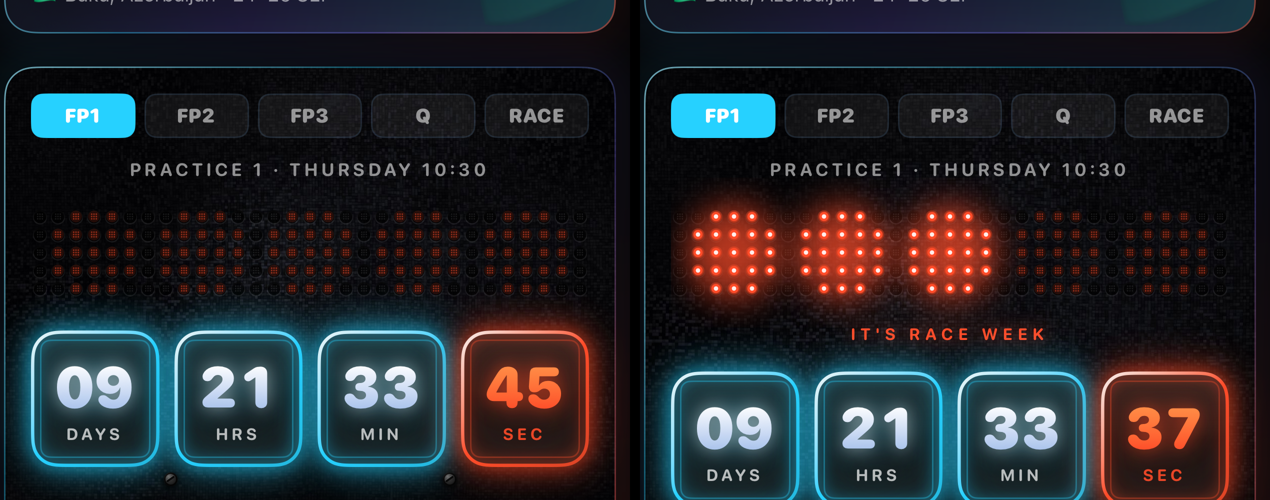
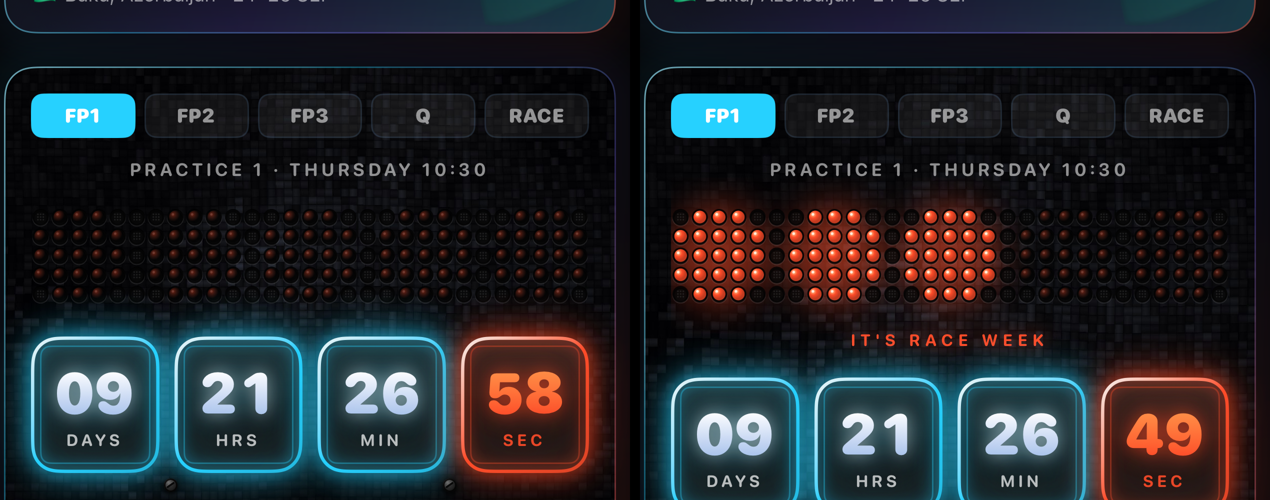
Carbon tiles ~2.7× bigger; LEDs bigger with bevelled sockets and domed lenses, softer when lit

diff --git a/TeamRadio/Views/CockpitKit.swift b/TeamRadio/Views/CockpitKit.swift
@@ -100,19 +100,20 @@ struct DotMatrixBoard: View {
 
     var body: some View {
         Canvas { ctx, size in
-            let cols = 31                   // five 5-wide lamps, single gaps, one spare column each side
+            let cols = 29                   // five 5-wide lamps with single gaps, edge to edge
             let rows = 5
             let pitch = size.width / CGFloat(cols)
             let top = (size.height - CGFloat(rows) * pitch) / 2
-            let hole = pitch * 0.36
-            let cellStep = pitch * 0.13
-            let cellR = pitch * 0.04
+            let hole = pitch * 0.42
+            let cellStep = pitch * 0.14
+            let cellR = pitch * 0.042
 
             func center(_ col: Int, _ row: Int) -> CGPoint {
                 CGPoint(x: CGFloat(col) * pitch + pitch / 2, y: top + CGFloat(row) * pitch + pitch / 2)
             }
+            func rect(_ p: CGPoint, _ r: CGFloat) -> CGRect { CGRect(x: p.x - r, y: p.y - r, width: 2 * r, height: 2 * r) }
             func disc(_ p: CGPoint, _ r: CGFloat, _ shading: GraphicsContext.Shading, in c: inout GraphicsContext) {
-                c.fill(Path(ellipseIn: CGRect(x: p.x - r, y: p.y - r, width: 2 * r, height: 2 * r)), with: shading)
+                c.fill(Path(ellipseIn: rect(p, r)), with: shading)
             }
             func cells(_ p: CGPoint, _ r: CGFloat, _ shading: GraphicsContext.Shading, in c: inout GraphicsContext) {
                 for dx in -1...1 {
@@ -121,13 +122,33 @@ struct DotMatrixBoard: View {
                     }
                 }
             }
+            /// Recessed hole: light from the top-left, so a shadow inside the top edge
+            /// and a thin lit lip along the bottom.
+            func socket(_ p: CGPoint, in c: inout GraphicsContext) {
+                disc(CGPoint(x: p.x, y: p.y + 0.9), hole * 1.02, .color(.white.opacity(0.11)), in: &c)
+                disc(p, hole, .color(.black.opacity(0.8)), in: &c)
+                c.stroke(Path(ellipseIn: rect(CGPoint(x: p.x, y: p.y + 0.7), hole * 0.86)), with: .color(.black.opacity(0.55)), lineWidth: 1.2)
+            }
+            func lens(_ p: CGPoint, on: Bool, in c: inout GraphicsContext) {
+                let r = hole * 0.78
+                let focus = CGPoint(x: p.x - r * 0.35, y: p.y - r * 0.4)
+                if on {
+                    disc(p, r, .radialGradient(Gradient(colors: [Color(red: 1, green: 0.8, blue: 0.55), lightColor, lightColor.opacity(0.75)]),
+                                               center: focus, startRadius: 0, endRadius: r * 1.15), in: &c)
+                    disc(CGPoint(x: p.x - r * 0.38, y: p.y - r * 0.42), r * 0.22, .color(.white.opacity(0.75)), in: &c)
+                } else {
+                    disc(p, r, .radialGradient(Gradient(colors: [lightColor.opacity(0.4), lightColor.opacity(0.16), Color.black.opacity(0.5)]),
+                                               center: focus, startRadius: 0, endRadius: r * 1.1), in: &c)
+                    disc(CGPoint(x: p.x - r * 0.38, y: p.y - r * 0.42), r * 0.2, .color(.white.opacity(0.12)), in: &c)
+                }
+            }
 
             // lamp c: a 5×5 block with the corners cut — reads as a disc
             var lit: Set<Int> = []          // key: row * 1000 + col
             var armed: Set<Int> = []
             var lampCenters: [(CGPoint, Bool)] = []
             for c in 0..<5 {
-                let cc = 3 + c * 6
+                let cc = 2 + c * 6
                 lampCenters.append((center(cc, 2), c < litLights))
                 for dc in -2...2 {
                     for dr in -2...2 where abs(dc) + abs(dr) <= 3 {
@@ -137,40 +158,32 @@ struct DotMatrixBoard: View {
                 }
             }
 
-            // every hole: dark recess with a rim; armed ones glow deep red, the rest stay grey
+            // bloom under the lit lamps
+            ctx.drawLayer { layer in
+                layer.addFilter(.blur(radius: pitch * 1.0))
+                for (p, on) in lampCenters where on {
+                    disc(p, pitch * 2.5, .color(lightColor.opacity(0.5)), in: &layer)
+                }
+            }
+
             for c in 0..<cols {
                 for r in 0..<rows {
                     let p = center(c, r)
-                    ctx.stroke(Path(ellipseIn: CGRect(x: p.x - hole, y: p.y - hole + 0.6, width: 2 * hole, height: 2 * hole)),
-                               with: .color(.white.opacity(0.07)), lineWidth: 0.8)
-                    disc(p, hole, .color(.black.opacity(0.7)), in: &ctx)
+                    socket(p, in: &ctx)
                     let key = r * 1000 + c
-                    if armed.contains(key) {
-                        disc(p, hole * 0.9, .color(lightColor.opacity(0.14)), in: &ctx)
-                        cells(p, cellR * 1.1, .color(lightColor.opacity(0.5)), in: &ctx)
-                    } else if !lit.contains(key) {
+                    if lit.contains(key) {
+                        lens(p, on: true, in: &ctx)
+                    } else if armed.contains(key) {
+                        lens(p, on: false, in: &ctx)
+                    } else {
                         cells(p, cellR, .color(.white.opacity(0.09)), in: &ctx)
                     }
                 }
             }
-
-            // lit lamps: one bloom per lamp, then every LED in the disc burns
-            ctx.drawLayer { layer in
-                layer.addFilter(.blur(radius: pitch * 1.0))
-                for (p, on) in lampCenters where on {
-                    disc(p, pitch * 2.6, .color(lightColor.opacity(0.7)), in: &layer)
-                }
-            }
-            for key in lit {
-                let p = center(key % 1000, key / 1000)
-                disc(p, hole * 0.95, .color(lightColor.opacity(0.4)), in: &ctx)
-                disc(p, hole * 0.72, .color(lightColor), in: &ctx)
-                disc(p, hole * 0.34, .color(.white.opacity(0.9)), in: &ctx)
-            }
         }
         // taller than the grid so the bloom isn't clipped; the negative
         // padding hands the spare room back to the layout
-        .frame(height: 100)
+        .frame(height: 104)
         .padding(.vertical, -16)
     }
 }
